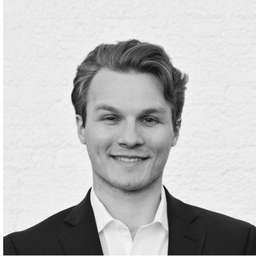
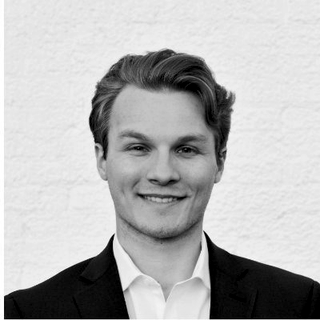
Style author portraits as Kindle-like square covers
Use rounded square thumbnails with hairline borders instead of circles,
larger home tiles, and slightly higher-contrast grayscale assets.

diff --git a/src/components/author-avatar.tsx b/src/components/author-avatar.tsx
@@ -2,6 +2,7 @@ import { Image } from 'expo-image';
 import { StyleSheet, Text, View } from 'react-native';
 
 import { getAuthorAvatarSource } from '@/constants/author-avatars';
+import { ReadingCover } from '@/constants/reading';
 import { useTheme } from '@/hooks/use-theme';
 
 type AuthorAvatarProps = {
@@ -10,26 +11,30 @@ type AuthorAvatarProps = {
   size?: number;
 };
 
-export function AuthorAvatar({ authorId, name, size = 44 }: AuthorAvatarProps) {
+/** Kindle-style square cover thumbnail (not a circle). */
+export function AuthorAvatar({ authorId, name, size = ReadingCover.homeSize }: AuthorAvatarProps) {
   const theme = useTheme();
   const imageSource = authorId ? getAuthorAvatarSource(authorId) : undefined;
-  const radius = size / 2;
+  const radius = ReadingCover.radius;
+
+  const frameStyle = {
+    width: size,
+    height: size,
+    borderRadius: radius,
+    borderColor: theme.border,
+    backgroundColor: theme.backgroundElement,
+  };
 
   if (imageSource) {
     return (
-      <Image
-        source={imageSource}
-        style={[
-          styles.photo,
-          {
-            width: size,
-            height: size,
-            borderRadius: radius,
-          },
-        ]}
-        contentFit="cover"
-        accessibilityLabel={`${name} portrait`}
-      />
+      <View style={[styles.frame, frameStyle]}>
+        <Image
+          source={imageSource}
+          style={[styles.photo, { borderRadius: radius - 1 }]}
+          contentFit="cover"
+          accessibilityLabel={`${name} cover`}
+        />
+      </View>
     );
   }
 
@@ -40,17 +45,8 @@ export function AuthorAvatar({ authorId, name, size = 44 }: AuthorAvatarProps) {
     .join('');
 
   return (
-    <View
-      style={[
-        styles.avatar,
-        {
-          width: size,
-          height: size,
-          borderRadius: radius,
-          backgroundColor: theme.backgroundSelected,
-        },
-      ]}>
-      <Text style={[styles.initials, { color: theme.text, fontSize: size * 0.34 }]}>
+    <View style={[styles.frame, styles.placeholder, frameStyle]}>
+      <Text style={[styles.initials, { color: theme.textSecondary, fontSize: size * 0.3 }]}>
         {initials}
       </Text>
     </View>
@@ -58,15 +54,20 @@ export function AuthorAvatar({ authorId, name, size = 44 }: AuthorAvatarProps) {
 }
 
 const styles = StyleSheet.create({
-  photo: {
-    backgroundColor: '#e8e2d9',
+  frame: {
+    overflow: 'hidden',
+    borderWidth: StyleSheet.hairlineWidth,
   },
-  avatar: {
+  photo: {
+    width: '100%',
+    height: '100%',
+  },
+  placeholder: {
     alignItems: 'center',
     justifyContent: 'center',
   },
   initials: {
     fontWeight: '600',
-    letterSpacing: 0.5,
+    letterSpacing: 1,
   },
 });

diff --git a/src/app/index.tsx b/src/app/index.tsx
@@ -82,7 +82,7 @@ function AuthorCard({
         { borderBottomColor: borderColor },
         pressed && styles.cardPressed,
       ]}>
-      <AuthorAvatar authorId={author.id} name={author.name} size={48} />
+      <AuthorAvatar authorId={author.id} name={author.name} />
       <View style={styles.cardBody}>
         <Text style={[styles.cardTitle, { color: textColor }]}>{author.name}</Text>
         {author.tagline ? (
@@ -139,9 +139,9 @@ const styles = StyleSheet.create({
   },
   card: {
     flexDirection: 'row',
-    alignItems: 'center',
-    gap: 14,
-    paddingVertical: 16,
+    alignItems: 'flex-start',
+    gap: 16,
+    paddingVertical: 18,
     borderBottomWidth: StyleSheet.hairlineWidth,
   },
   cardPressed: {
@@ -152,9 +152,10 @@ const styles = StyleSheet.create({
     gap: 4,
   },
   cardTitle: {
-    fontSize: 17,
+    fontSize: 16,
     fontWeight: '600',
-    letterSpacing: -0.2,
+    letterSpacing: -0.15,
+    lineHeight: 21,
   },
   cardTagline: {
     fontSize: 13,

diff --git a/src/app/author/[id].tsx b/src/app/author/[id].tsx
@@ -4,7 +4,7 @@ import { Pressable, SectionList, StyleSheet, Text, View } from 'react-native';
 import { SafeAreaView } from 'react-native-safe-area-context';
 
 import { AuthorAvatar } from '@/components/author-avatar';
-import { ReadingLayout, ReadingTypography } from '@/constants/reading';
+import { ReadingCover, ReadingLayout, ReadingTypography } from '@/constants/reading';
 import { useAuthorArticles } from '@/hooks/use-articles';
 import { useTheme } from '@/hooks/use-theme';
 import type { ArticleSummary } from '@/types/article';
@@ -34,7 +34,11 @@ export default function AuthorScreen() {
         <Text style={[styles.back, { color: theme.textSecondary }]}>← Authors</Text>
       </Pressable>
       <View style={styles.authorRow}>
-        <AuthorAvatar authorId={authorId} name={author?.name ?? authorId} size={52} />
+        <AuthorAvatar
+          authorId={authorId}
+          name={author?.name ?? authorId}
+          size={ReadingCover.detailSize}
+        />
         <View style={styles.authorMeta}>
           <Text style={[styles.authorName, { color: theme.text }]}>
             {author?.name ?? authorId}
@@ -154,8 +158,8 @@ const styles = StyleSheet.create({
   },
   authorRow: {
     flexDirection: 'row',
-    alignItems: 'center',
-    gap: 14,
+    alignItems: 'flex-start',
+    gap: 16,
   },
   authorMeta: {
     flex: 1,

diff --git a/src/constants/reading.ts b/src/constants/reading.ts
@@ -48,3 +48,10 @@ export const ReadingLayout = {
   insetBottom: 48,
   maxWidth: 580,
 } as const;
+
+/** Square cover tiles (Kindle library style). */
+export const ReadingCover = {
+  homeSize: 64,
+  detailSize: 72,
+  radius: 6,
+} as const;